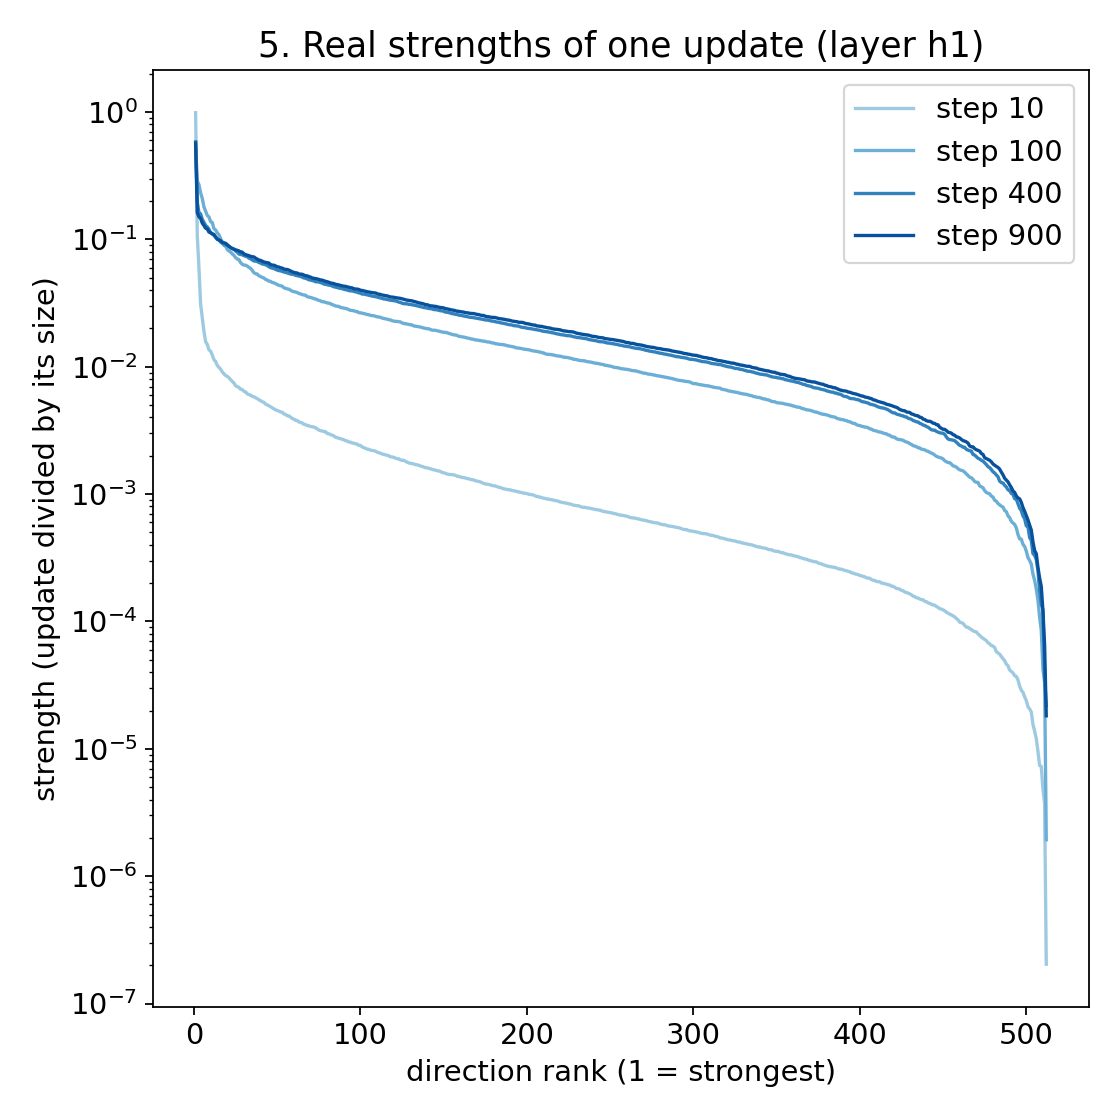
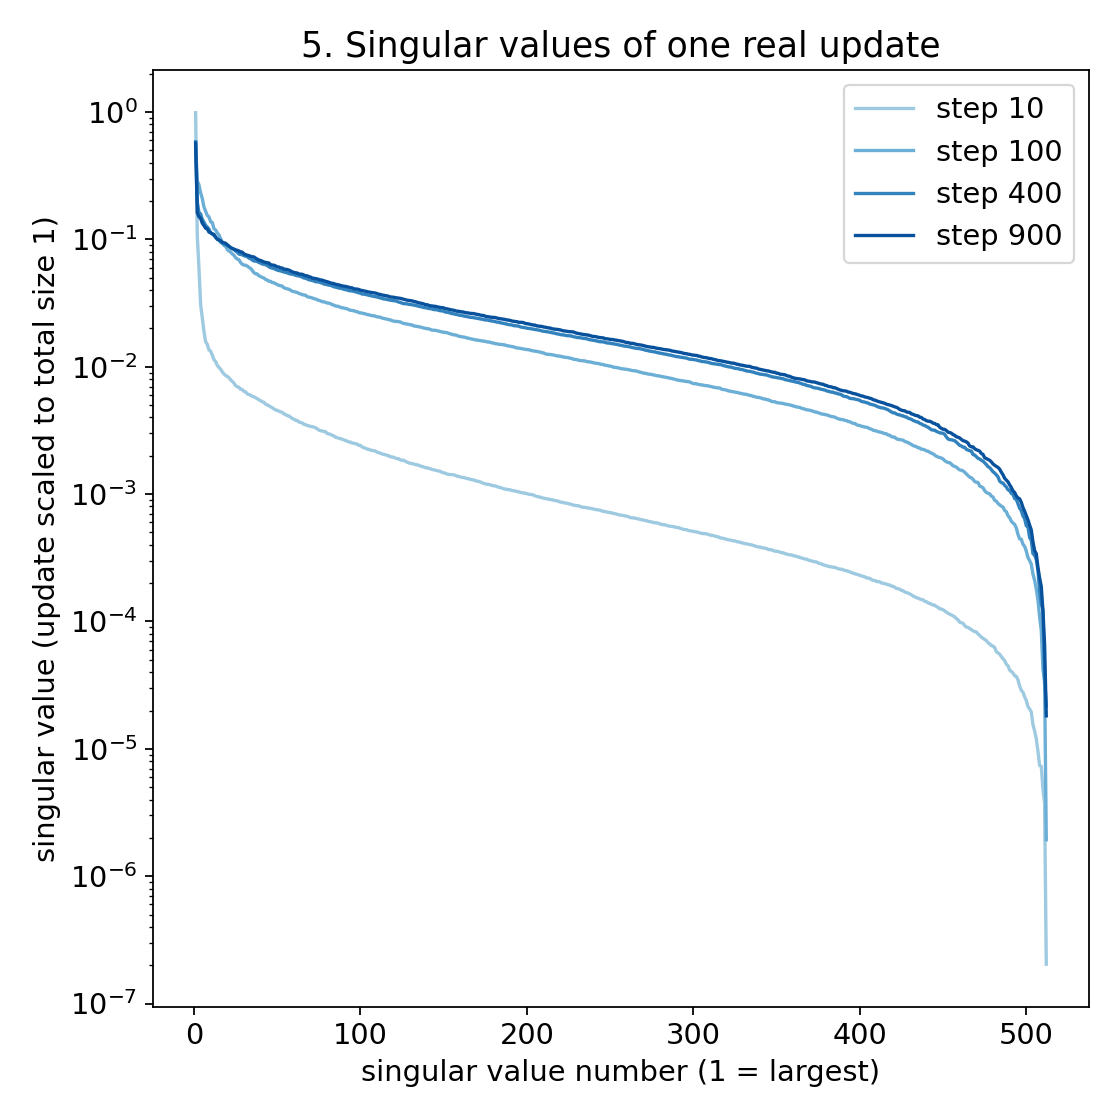
Chart 5: label as singular values

Changed region(s): [[0.2188, 0.0312, 0.875, 0.0625], [0.0312, 0.1875, 0.0625, 0.7812], [0.3125, 0.9375, 0.7812, 0.9688]]

diff --git a/experiments/explore_exp2.py b/experiments/explore_exp2.py
@@ -92,8 +92,8 @@ def panel5(a):
     for st, c in zip(KEEP, ["#9ecae1", "#6baed6", "#3182bd", "#08519c"]):
         a.plot(np.arange(1, len(S[st]) + 1), S[st], color=c, label=f"step {st}")
     a.set_yscale("log")
-    a.set(xlabel="direction rank (1 = strongest)", ylabel="strength (update divided by its size)",
-          title="5. Real strengths of one update (layer h1)")
+    a.set(xlabel="singular value number (1 = largest)", ylabel="singular value (update scaled to total size 1)",
+          title="5. Singular values of one real update")
     a.legend()
 
 
